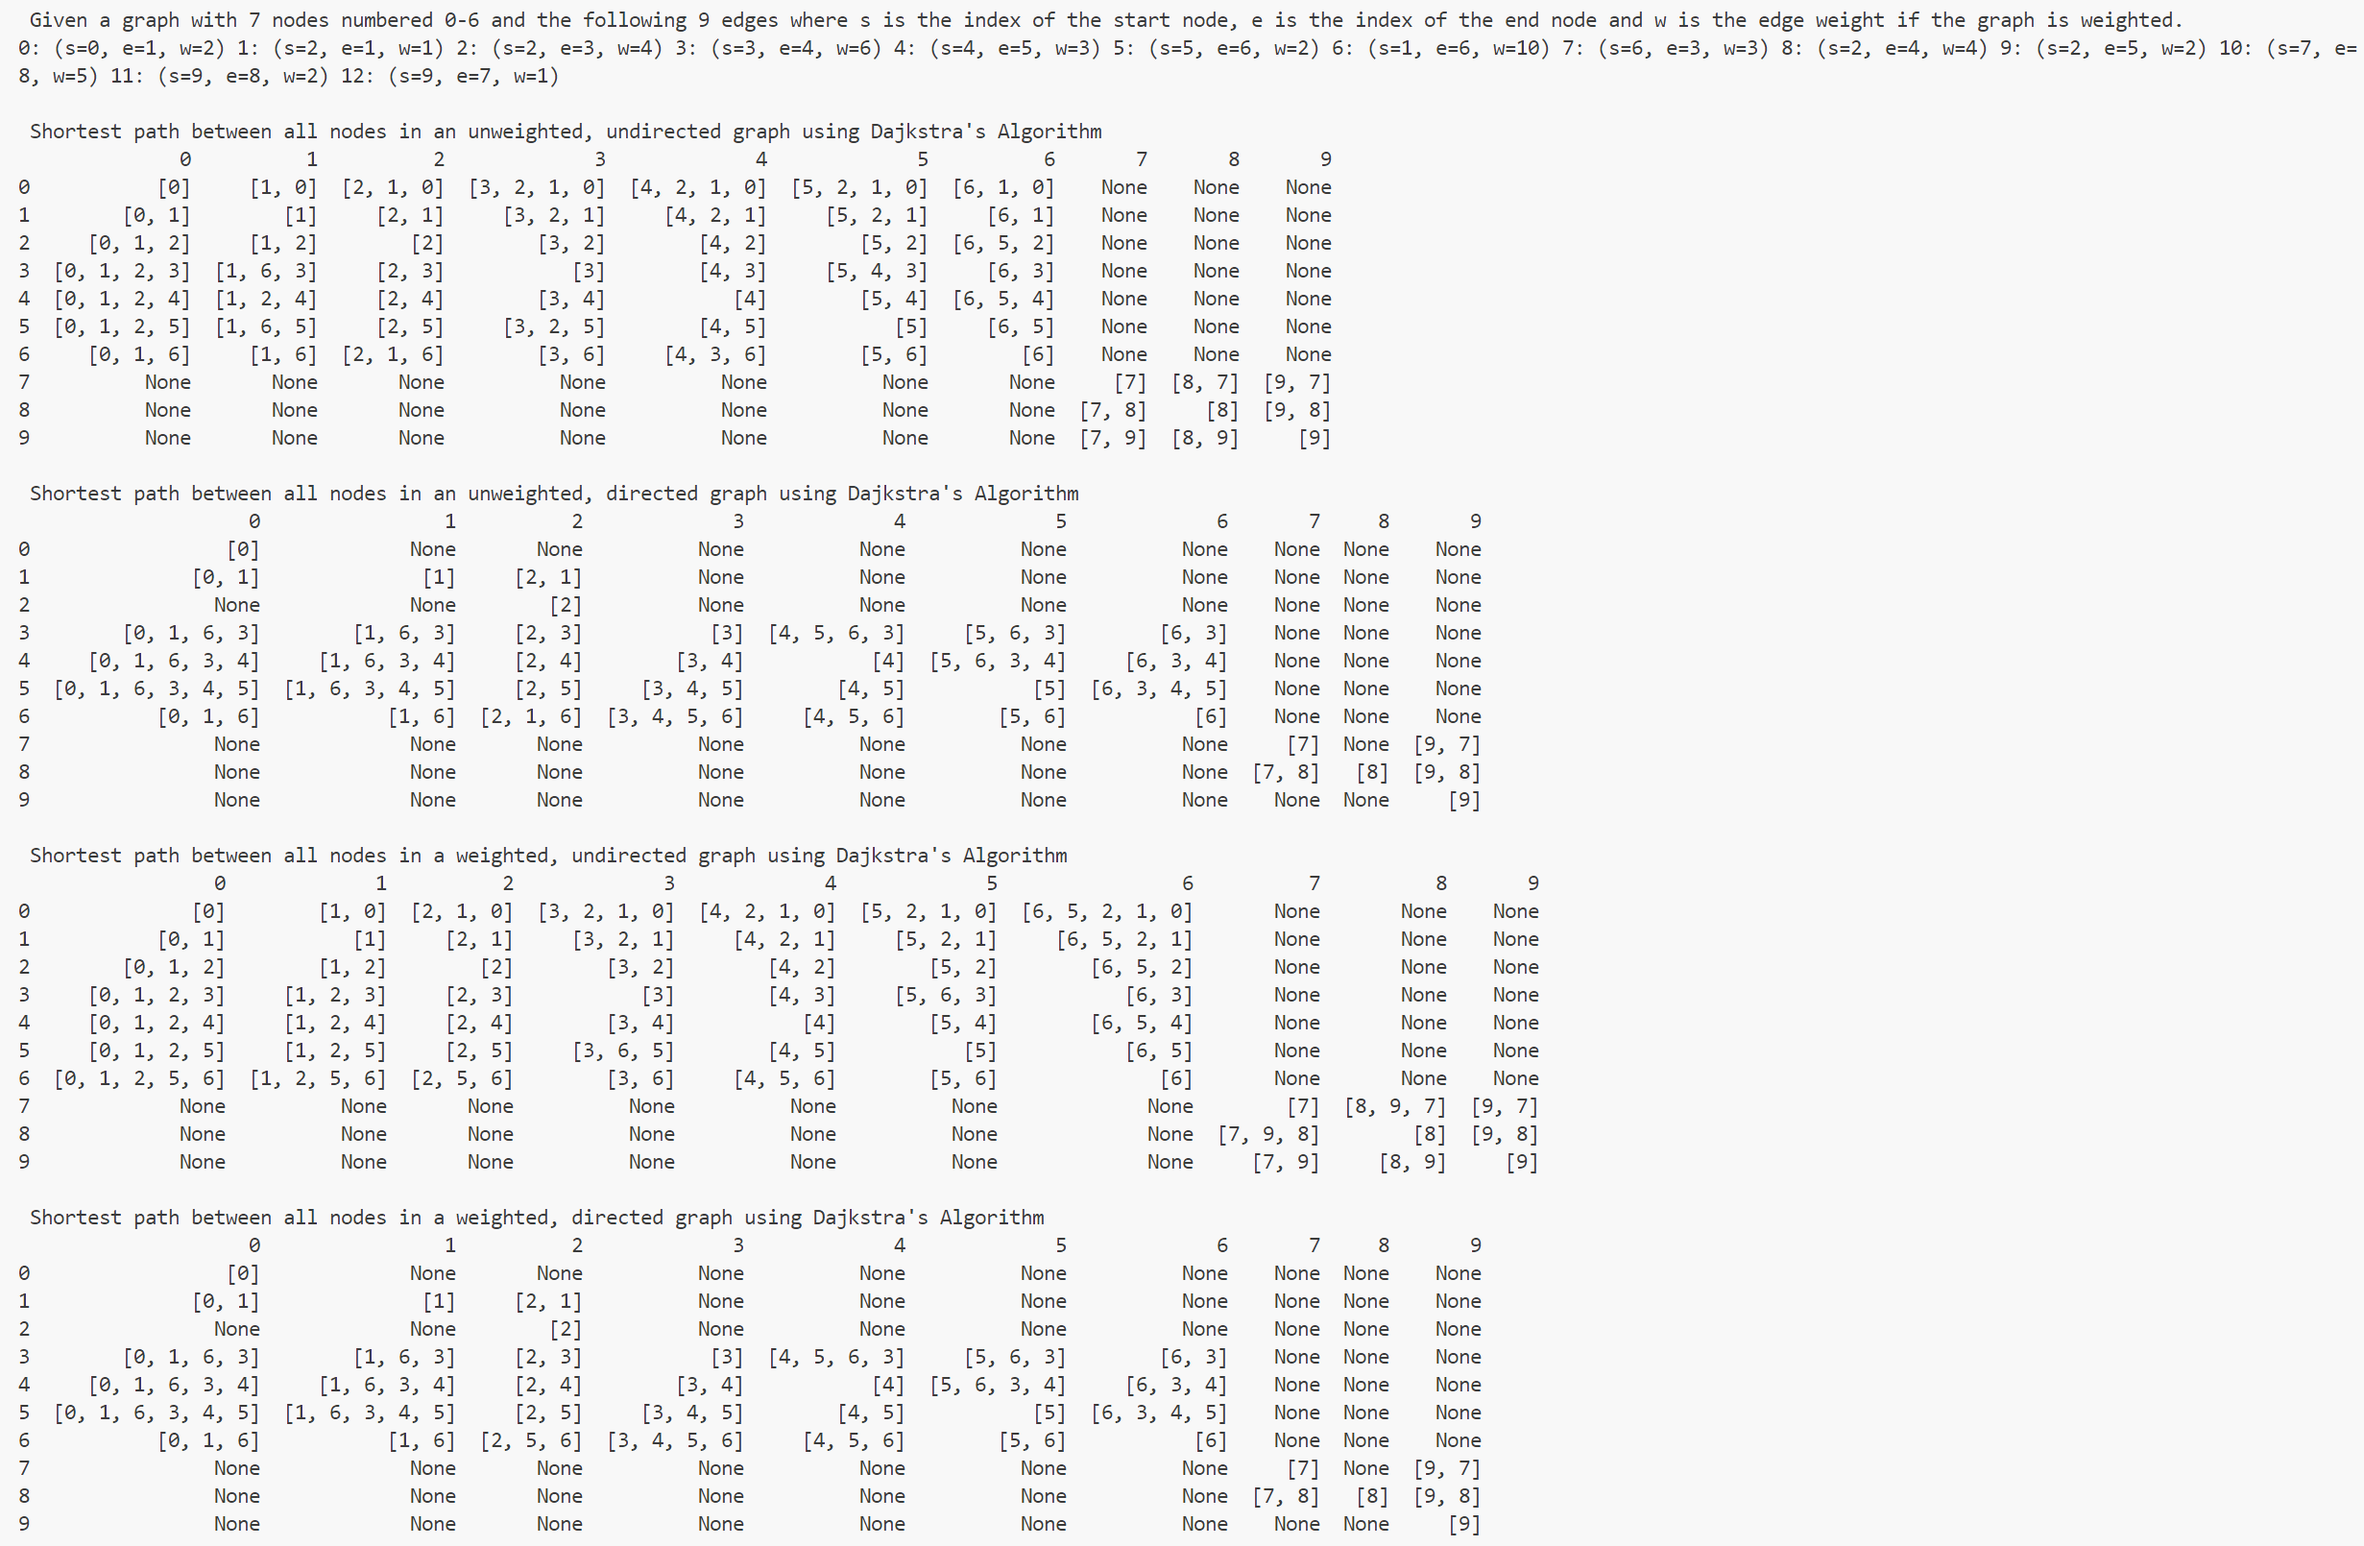
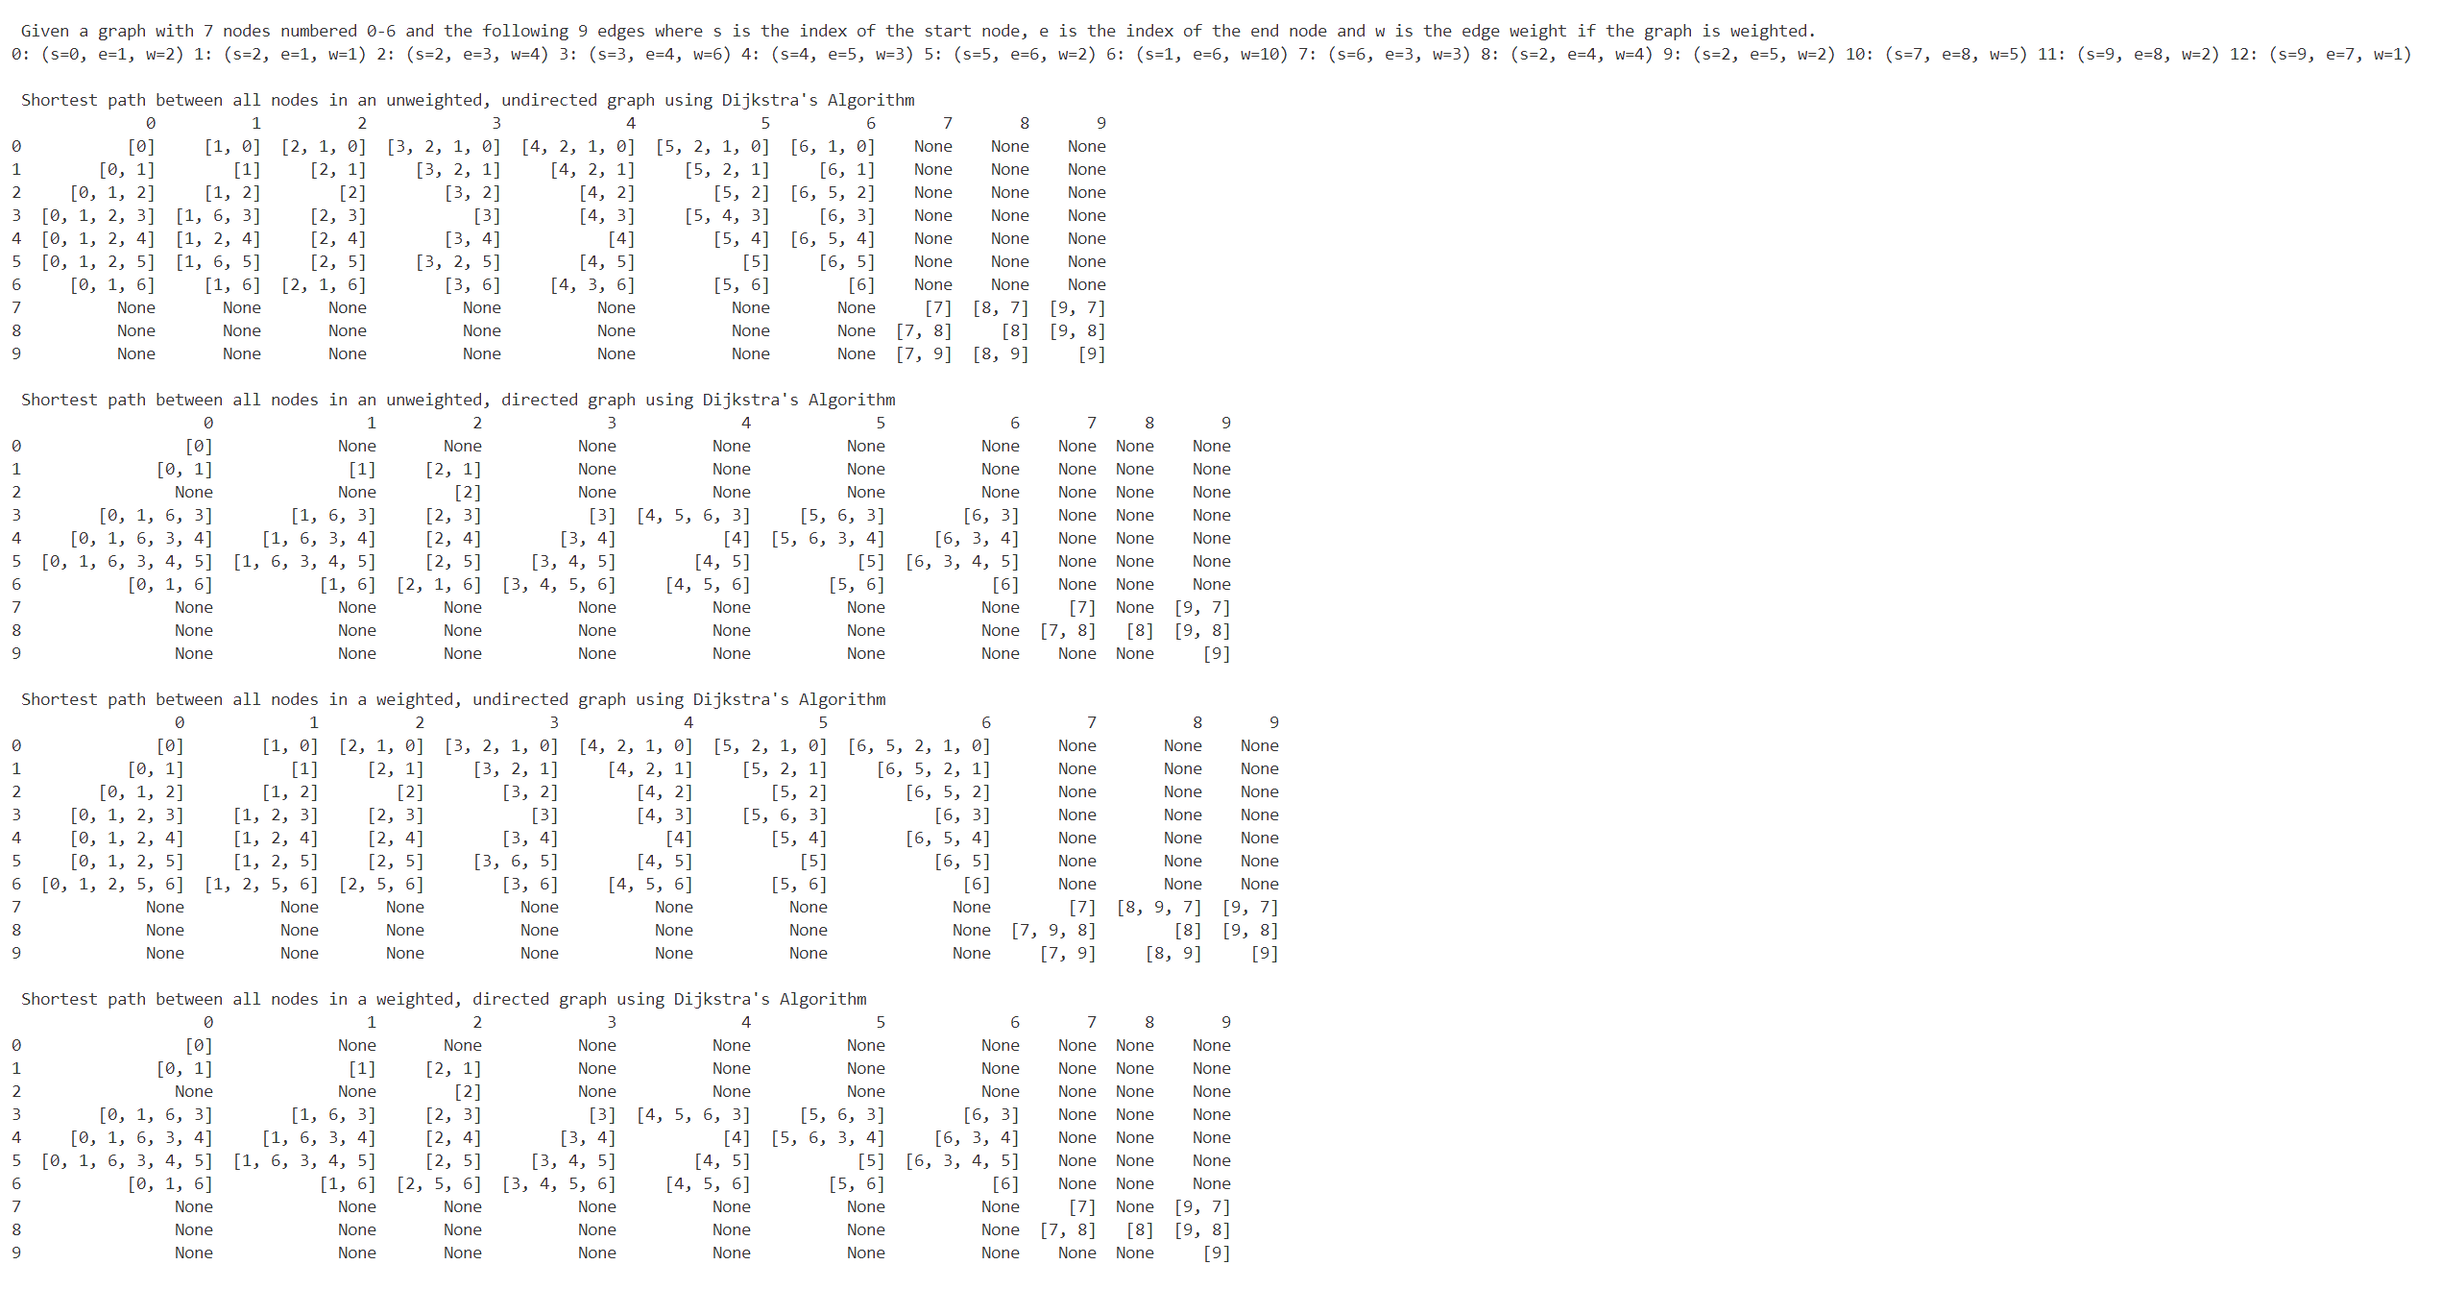
Spelling Correction

Changed region(s): [[0.0, 0.0, 0.9878, 1.0], [0.5865, 0.5805, 0.6483, 0.7638]]

diff --git a/DataStructures/Graph.py b/DataStructures/Graph.py
@@ -36,7 +36,7 @@ class GraphNode():
         self.is_visited = False
         self.is_in_queue = False
 
-    def resetTrackersForDajkstra(self):
+    def resetTrackersForDijkstra(self):
         '''
         This method resets the trackers for djakstra's algoithm so it may be ran again
         '''
@@ -652,7 +652,7 @@ class Graph():
         print(bellman_ford_dataframe)
         return bellman_ford_dataframe
     
-    def shortestPathBetweenTwoNodesUsingDajkstra(self, start_node_index, end_node_index):
+    def shortestPathBetweenTwoNodesUsingDijkstra(self, start_node_index, end_node_index):
         '''
         This method finds the shortest path between a given start node and a given end node
 
@@ -718,15 +718,15 @@ class Graph():
         # print(f"Calculating from {start_node_index} to {end_node_index} distance is {end_node.distance}")
         return path, end_node.distance
     
-    def resetAllNodesTrackersForDajkstra(self):
+    def resetAllNodesTrackersForDijkstra(self):
         '''
         This method resets the trackers used for djakstra's algorithm for all nodes in the graph
         '''
 
         for i in range(0, self.number_of_nodes):
-            self.nodes[i].resetTrackersForDajkstra()
+            self.nodes[i].resetTrackersForDijkstra()
 
-    def findAllPathsDajkstra(self):
+    def findAllPathsDijkstra(self):
         distances_dictionary = {}
         paths_dictionary = {}
 
@@ -736,9 +736,9 @@ class Graph():
             paths_list = []
 
             for end_index in range(0, self.number_of_nodes):
-                self.resetAllNodesTrackersForDajkstra()
+                self.resetAllNodesTrackersForDijkstra()
 
-                path, distance = self.shortestPathBetweenTwoNodesUsingDajkstra(start_node_index=start_index,end_node_index=end_index)
+                path, distance = self.shortestPathBetweenTwoNodesUsingDijkstra(start_node_index=start_index,end_node_index=end_index)
                 distances_list.append(distance)
                 paths_list.append(path)
 
@@ -832,49 +832,49 @@ if __name__ == '__main__':
     unweighted_graph = Graph(7,edge_tuples=edge_list, is_weighted=False, is_debug=False)
     unweighted_graph.getBellmanFordDirectedComparisonDataFrame(3)
 
-    print("\n Shortest path and distance between 0 and 5 in a weighted graph using Dajkstra's Algorithm")
-    path, distance = weighted_graph.shortestPathBetweenTwoNodesUsingDajkstra(0,5)
+    print("\n Shortest path and distance between 0 and 5 in a weighted graph using Dijkstra's Algorithm")
+    path, distance = weighted_graph.shortestPathBetweenTwoNodesUsingDijkstra(0,5)
     print(path)
     print(distance)
 
-    print("\n Shortest path and distance between 0 and 5 in an unweighted graph using Dajkstra's Algorithm")
-    path, distance = unweighted_graph.shortestPathBetweenTwoNodesUsingDajkstra(0,5)
+    print("\n Shortest path and distance between 0 and 5 in an unweighted graph using Dijkstra's Algorithm")
+    path, distance = unweighted_graph.shortestPathBetweenTwoNodesUsingDijkstra(0,5)
     print(path)
     print(distance)
-    edges_dajkstra = [(0,1),(2,1),(2,3),(3,4),(4,5),(5,6),(1,6),(6,3),(2,4),(2,5),(7,8),(9,8),(9,7)]   
-    weighted_edges_dajkstra = [(0,1,2),(2,1,1),(2,3,4),(3,4,6),(4,5,3),(5,6,2),(1,6,10),(6,3,3),(2,4,4),(2,5,2),(7,8,5),(9,8,2),(9,7,1)]
+    edges_Dijkstra = [(0,1),(2,1),(2,3),(3,4),(4,5),(5,6),(1,6),(6,3),(2,4),(2,5),(7,8),(9,8),(9,7)]   
+    weighted_edges_Dijkstra = [(0,1,2),(2,1,1),(2,3,4),(3,4,6),(4,5,3),(5,6,2),(1,6,10),(6,3,3),(2,4,4),(2,5,2),(7,8,5),(9,8,2),(9,7,1)]
 
-    unweighted_undirected_dajkstra_graph = Graph(10,edge_tuples=edges_dajkstra, is_weighted=False, is_directed=False, is_debug=False)
-    unweighted_directed_dajkstra_graph = Graph(10,edge_tuples=edges_dajkstra, is_weighted=False, is_directed=True, is_debug=False)
-    weighted_undirected_dajkstra_graph = Graph(10,edge_tuples=weighted_edges_dajkstra, is_weighted=True, is_directed=False, is_debug=False)
-    weighted_directed_dajkstra_graph = Graph(10,edge_tuples=weighted_edges_dajkstra, is_weighted=True, is_directed=True, is_debug=False)
+    unweighted_undirected_Dijkstra_graph = Graph(10,edge_tuples=edges_Dijkstra, is_weighted=False, is_directed=False, is_debug=False)
+    unweighted_directed_Dijkstra_graph = Graph(10,edge_tuples=edges_Dijkstra, is_weighted=False, is_directed=True, is_debug=False)
+    weighted_undirected_Dijkstra_graph = Graph(10,edge_tuples=weighted_edges_Dijkstra, is_weighted=True, is_directed=False, is_debug=False)
+    weighted_directed_Dijkstra_graph = Graph(10,edge_tuples=weighted_edges_Dijkstra, is_weighted=True, is_directed=True, is_debug=False)
 
     print("\n\n Given a graph with 10 nodes numbered 0-9 and the following 13 edges where s is the index of the start node, e is the index of the end node and w is the edge weight if the graph is weighted.")
-    weighted_directed_dajkstra_graph.printWeightEdgesAbbreviated()
-    print("\n Shortest distance between all nodes in an unweighted, undirected graph using Dajkstra's Algorithm")
-    unweighted_undirected_distances, unweighted_undirected_paths = unweighted_undirected_dajkstra_graph.findAllPathsDajkstra()
+    weighted_directed_Dijkstra_graph.printWeightEdgesAbbreviated()
+    print("\n Shortest distance between all nodes in an unweighted, undirected graph using Dijkstra's Algorithm")
+    unweighted_undirected_distances, unweighted_undirected_paths = unweighted_undirected_Dijkstra_graph.findAllPathsDijkstra()
     print(unweighted_undirected_distances)
 
-    print("\n Shortest distance between all nodes in an unweighted, directed graph using Dajkstra's Algorithm")
-    unweighted_directed_distances, unweighted_directed_paths = unweighted_directed_dajkstra_graph.findAllPathsDajkstra()
+    print("\n Shortest distance between all nodes in an unweighted, directed graph using Dijkstra's Algorithm")
+    unweighted_directed_distances, unweighted_directed_paths = unweighted_directed_Dijkstra_graph.findAllPathsDijkstra()
     print(unweighted_directed_distances)
 
-    print("\n Shortest distance between all nodes in a weighted, undirected graph using Dajkstra's Algorithm")
-    weighted_distances, weighted_paths = weighted_undirected_dajkstra_graph.findAllPathsDajkstra()
+    print("\n Shortest distance between all nodes in a weighted, undirected graph using Dijkstra's Algorithm")
+    weighted_distances, weighted_paths = weighted_undirected_Dijkstra_graph.findAllPathsDijkstra()
     print(weighted_distances)
 
-    print("\n Shortest distance between all nodes in a weighted, directed graph using Dajkstra's Algorithm")
-    weighted_directed_distances, weighted_directed_paths = weighted_directed_dajkstra_graph.findAllPathsDajkstra()
+    print("\n Shortest distance between all nodes in a weighted, directed graph using Dijkstra's Algorithm")
+    weighted_directed_distances, weighted_directed_paths = weighted_directed_Dijkstra_graph.findAllPathsDijkstra()
     print(weighted_directed_distances)
     
     print("\n\n Given a graph with 7 nodes numbered 0-6 and the following 9 edges where s is the index of the start node, e is the index of the end node and w is the edge weight if the graph is weighted.")
-    weighted_directed_dajkstra_graph.printWeightEdgesAbbreviated()
-    print("\n Shortest path between all nodes in an unweighted, undirected graph using Dajkstra's Algorithm")
+    weighted_directed_Dijkstra_graph.printWeightEdgesAbbreviated()
+    print("\n Shortest path between all nodes in an unweighted, undirected graph using Dijkstra's Algorithm")
     print(unweighted_undirected_paths)  
-    print("\n Shortest path between all nodes in an unweighted, directed graph using Dajkstra's Algorithm")  
+    print("\n Shortest path between all nodes in an unweighted, directed graph using Dijkstra's Algorithm")  
     print(unweighted_directed_paths)
-    print("\n Shortest path between all nodes in a weighted, undirected graph using Dajkstra's Algorithm")
+    print("\n Shortest path between all nodes in a weighted, undirected graph using Dijkstra's Algorithm")
     print(weighted_paths)
-    print("\n Shortest path between all nodes in a weighted, directed graph using Dajkstra's Algorithm")
+    print("\n Shortest path between all nodes in a weighted, directed graph using Dijkstra's Algorithm")
     print(weighted_directed_paths)
     print("\n\n")

diff --git a/DataStructures/GraphUnitTests.py b/DataStructures/GraphUnitTests.py
@@ -237,45 +237,45 @@ class GraphUnitTests(unittest.TestCase):
         self.assertEqual(parents, None)
         self.assertEqual(distances, None)
 
-    def test_unweighted_directed_Dajkstra(self):
+    def test_unweighted_directed_Dijkstra(self):
         '''
-        This method tests dajkstra using an unweighted, directed graph
+        This method tests Dijkstra using an unweighted, directed graph
         '''
 
         graph = Graph(number_of_nodes=self.number_of_nodes, edge_tuples=self.edge_list, is_breadth_first=True, is_directed=True, is_debug=False)
         
-        distances, paths = graph.findAllPathsDajkstra()
+        distances, paths = graph.findAllPathsDijkstra()
         print(paths)
 
 
-    def test_unweighted_undirected_dajkstra(self):
+    def test_unweighted_undirected_Dijkstra(self):
         '''
-        This method tests dajkstra using an unweighted, undirected graph
+        This method tests Dijkstra using an unweighted, undirected graph
         '''
 
         graph = Graph(number_of_nodes=self.number_of_nodes, edge_tuples=self.edge_list, is_breadth_first=True, is_directed=False, is_debug=False)
         
-        distances, paths = graph.findAllPathsDajkstra()
+        distances, paths = graph.findAllPathsDijkstra()
         print(paths)
 
-    def test_weighted_directed_dajkstra(self):
+    def test_weighted_directed_Dijkstra(self):
         '''
-        This method tests dajkstra using a weighted, directed graph
+        This method tests Dijkstra using a weighted, directed graph
         '''
 
         graph = Graph(number_of_nodes=self.number_of_nodes, edge_tuples=self.weighted_edge_list, is_breadth_first=True, is_directed=True, is_weighted=True, is_debug=False)
         
-        distances, paths = graph.findAllPathsDajkstra()
+        distances, paths = graph.findAllPathsDijkstra()
         print(paths)
 
-    def test_weighted_dajkstra_bellman(self):
+    def test_weighted_Dijkstra_bellman(self):
         '''
-        This method tests dajkstra using a weighted, undirected graph
+        This method tests Dijkstra using a weighted, undirected graph
         '''
 
         graph = Graph(number_of_nodes=self.number_of_nodes, edge_tuples=self.weighted_edge_list, is_breadth_first=True, is_directed=False, is_weighted=True, is_debug=False)
         
-        distances, paths = graph.findAllPathsDajkstra()
+        distances, paths = graph.findAllPathsDijkstra()
         print(paths)
 
 if __name__ == '__main__':
